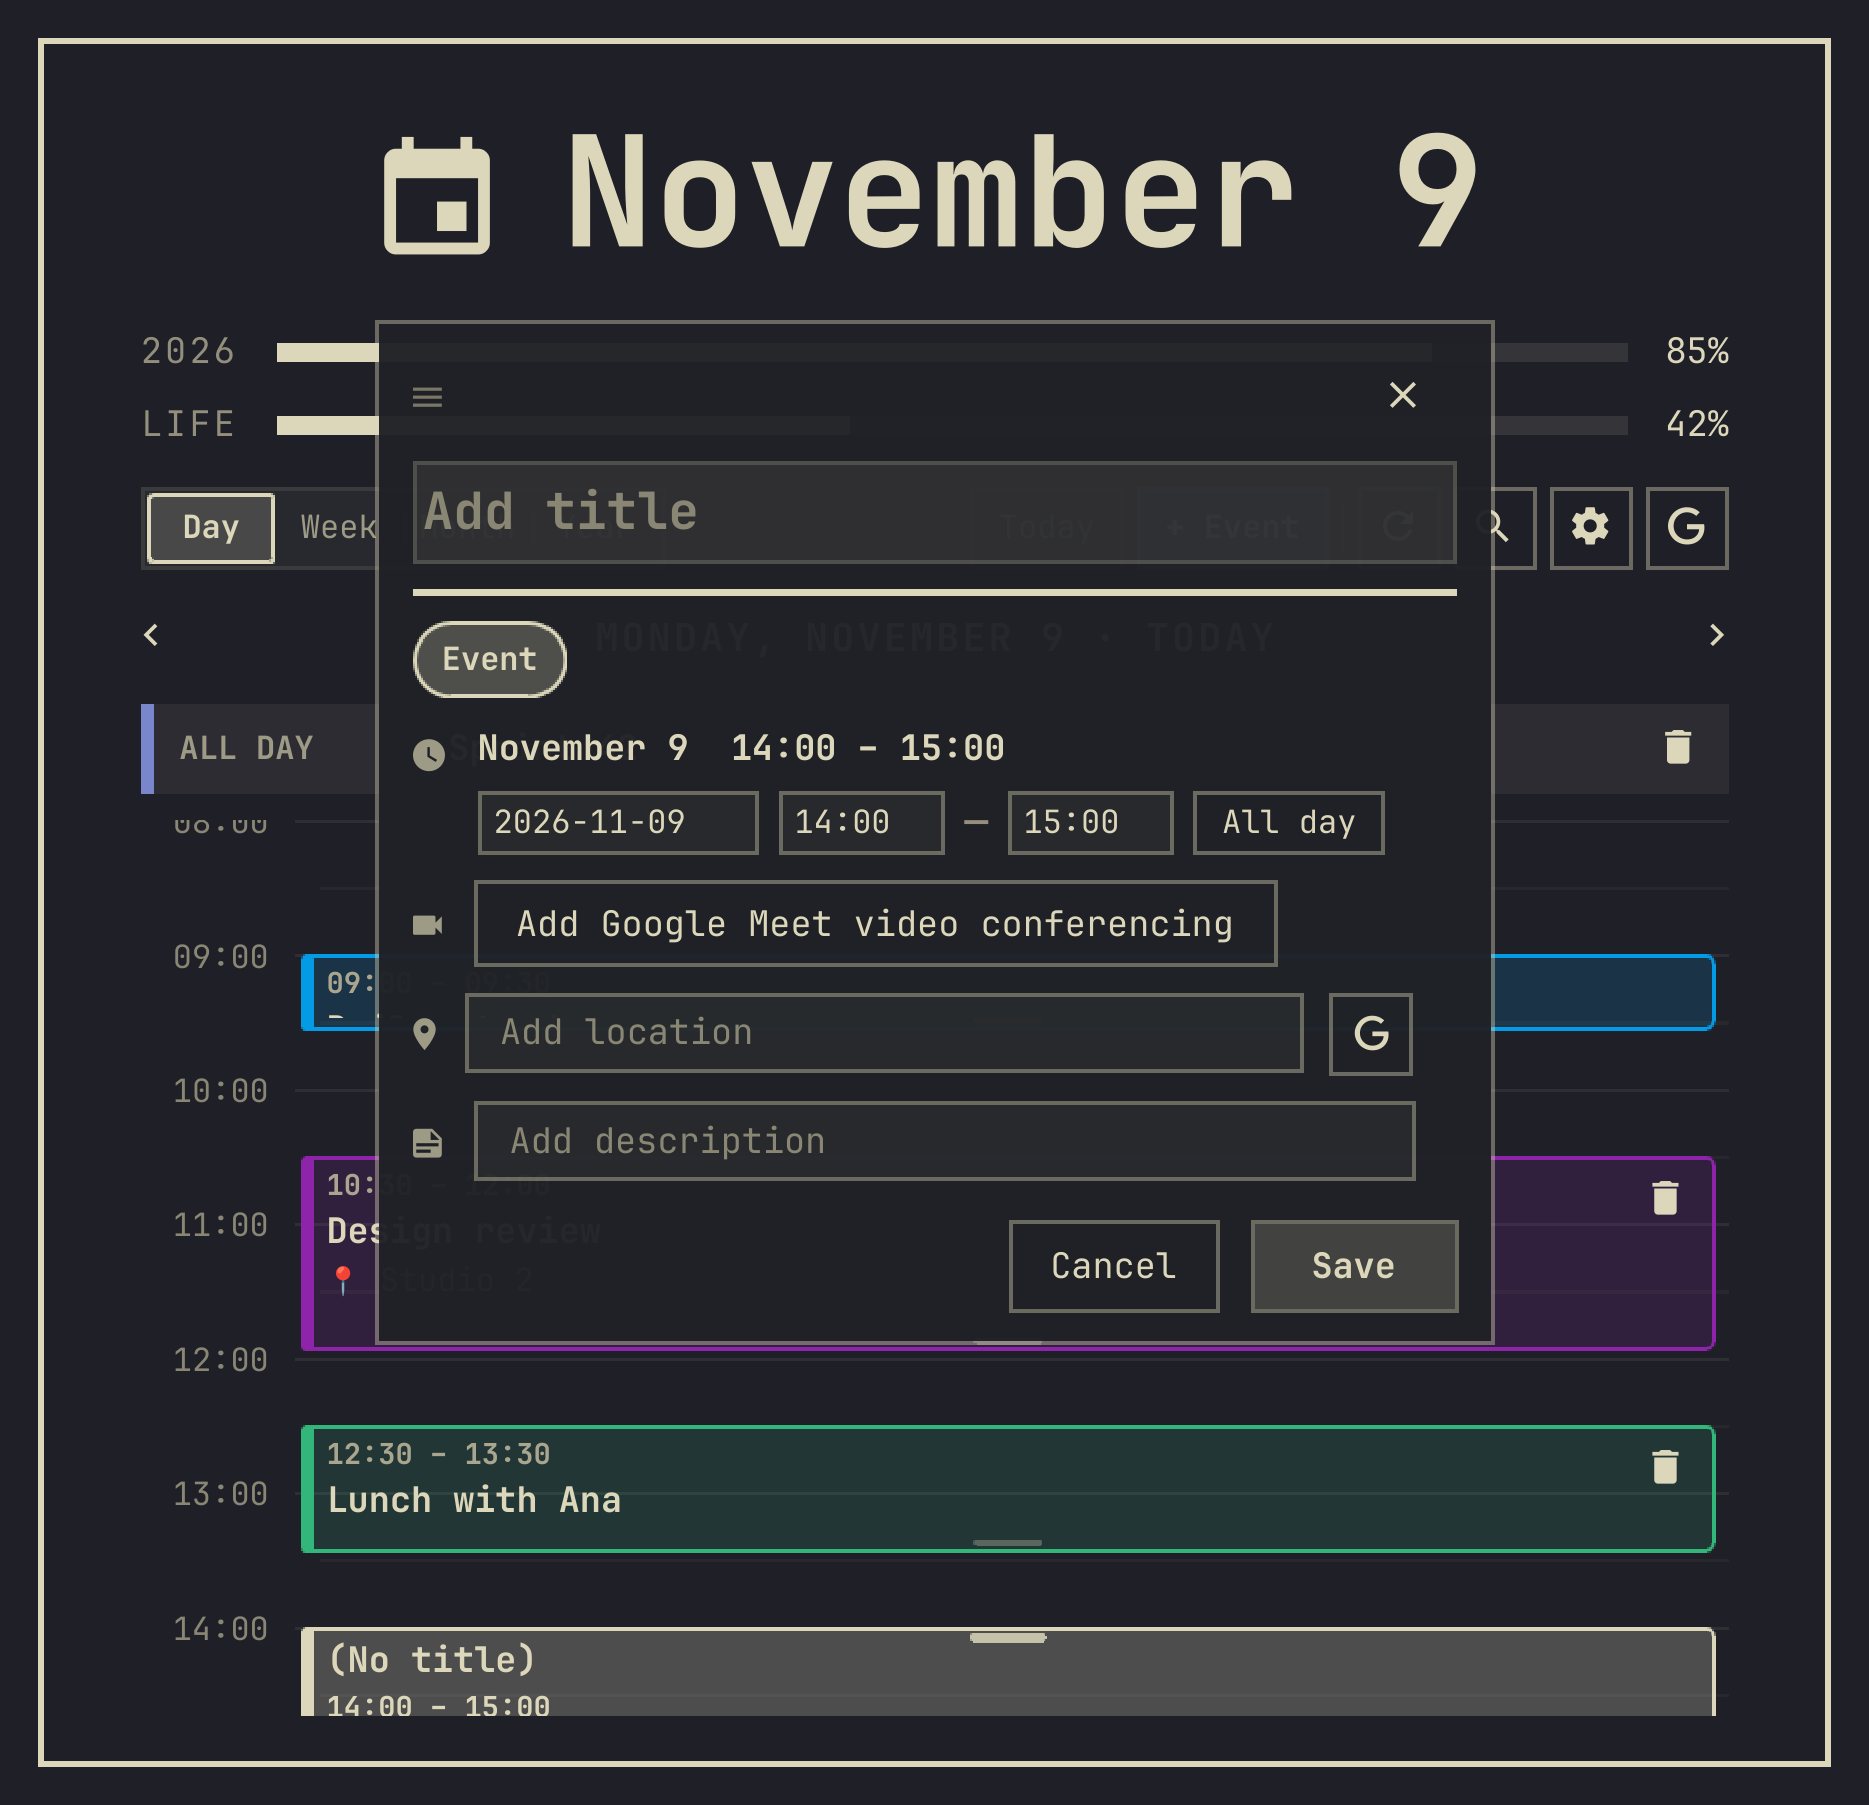
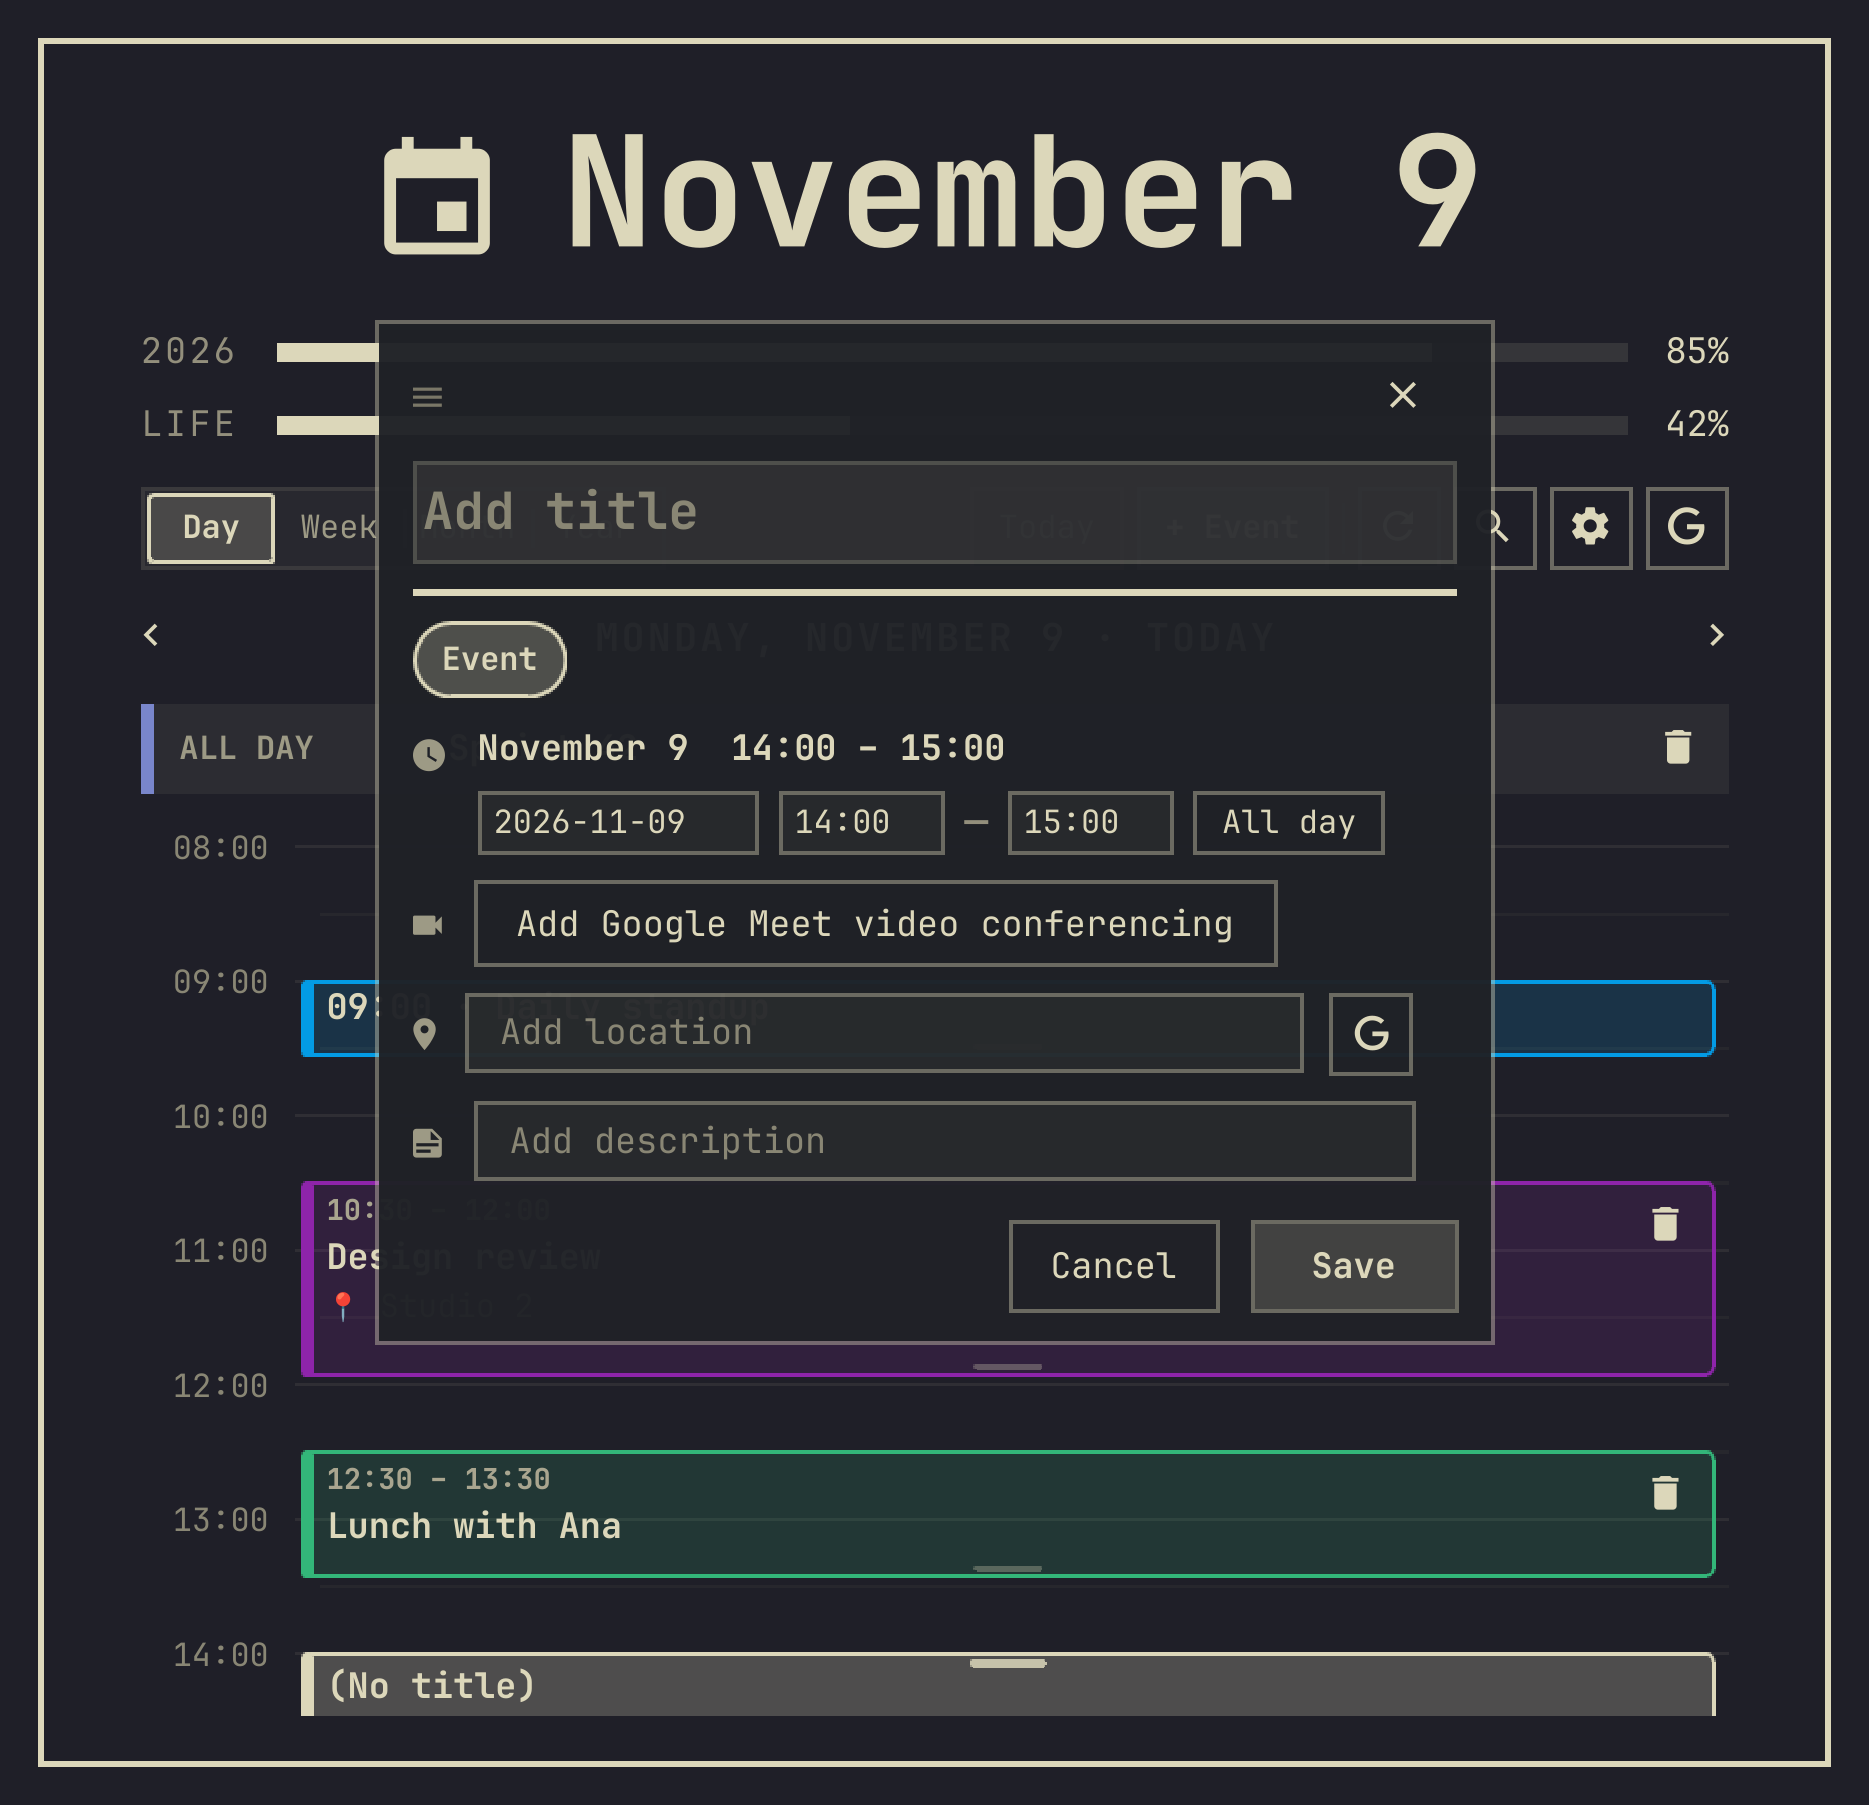
Fix review findings: untitled events, shortcuts, privacy note, day grid
- Untitled events: the helper stores an empty title instead of a hard-coded
  "(Sem título)"; Model.parseEventsPayload/sanitizeEvent take the localized
  label (events.untitled) from the bar widget, and old caches' Portuguese
  placeholder is mapped to it. Tests for both.
- Settings: the top-bar badge toggle reads On/Off (new toggle.on/off keys)
  instead of reusing the auto-sync Enabled/Paused labels.
- Day/Week grid: a top inset so the first visible hour label is not cut by
  the clip, and short Day cards (< ~45 min) show one "09:00 · Title" line.
  Docs captures regenerated.
- README: correct the shortcut table (W, j/k, d/w/m/y, v/V, {/}) and say
  that events.json also holds the secret iCal address.
- dev/deploy.sh: warn when the deployed HEAD is not pushed to origin, since
  `omarchy plugin update` pulls from there.

diff --git a/Panel.qml b/Panel.qml
@@ -1537,7 +1537,7 @@ Ui.Panel {
                   Button {
                     id: barBadgeToggleBtn
                     anchors.verticalCenter: parent.verticalCenter
-                    text: root.showBarEventBadge ? tr.t("sync.autoSyncOn") : tr.t("sync.autoSyncOff")
+                    text: root.showBarEventBadge ? tr.t("toggle.on") : tr.t("toggle.off")
                     selected: root.showBarEventBadge
                     bordered: true
                     foreground: root.contentForeground
@@ -2054,7 +2054,10 @@ Ui.Panel {
                 width: parent.width
                 height: Style.space(240)
                 contentWidth: width
-                contentHeight: 24 * weekViewCol.weekHourHeight
+                // Room above the first hour line so its label (drawn half above
+                // the line) is never cut by the clip at the top.
+                readonly property int topInset: Style.space(8)
+                contentHeight: 24 * weekViewCol.weekHourHeight + 2 * topInset
                 clip: true
                 boundsBehavior: Flickable.StopAtBounds
                 flickableDirection: Flickable.VerticalFlick
@@ -2078,6 +2081,7 @@ Ui.Panel {
 
                 Item {
                   id: weekCanvas
+                  y: weekTimelineFlick.topInset
                   width: weekTimelineFlick.width
                   height: 24 * weekViewCol.weekHourHeight
 
@@ -3008,7 +3012,10 @@ Ui.Panel {
                 width: parent.width
                 height: Style.space(280)
                 contentWidth: width
-                contentHeight: 24 * dayHourHeight
+                // Room above the first hour line so its label (drawn half above
+                // the line) is never cut by the clip at the top.
+                readonly property int topInset: Style.space(8)
+                contentHeight: 24 * dayHourHeight + 2 * topInset
                 clip: true
                 boundsBehavior: Flickable.StopAtBounds
                 flickableDirection: Flickable.VerticalFlick
@@ -3035,6 +3042,7 @@ Ui.Panel {
 
                 Item {
                   id: dayCanvas
+                  y: dayTimelineFlick.topInset
                   width: dayTimelineFlick.width
                   height: 24 * dayTimelineFlick.dayHourHeight
 
@@ -3480,13 +3488,18 @@ Ui.Panel {
                             anchors.right: dayEventActions.left
                             anchors.rightMargin: Style.space(4)
                             anchors.top: parent.top
-                            anchors.topMargin: Style.space(3)
+                            anchors.topMargin: compact ? Style.space(1) : Style.space(3)
                             anchors.bottom: parent.bottom
-                            anchors.bottomMargin: Style.space(4)
+                            anchors.bottomMargin: compact ? 0 : Style.space(4)
                             spacing: Style.space(1)
                             clip: true
 
+                            // Short cards (under ~45 min) get one "09:00 · Title" line
+                            // instead of a time row that pushes the title out of view.
+                            readonly property bool compact: dayEventCard.height < Style.space(32)
+
                             Text {
+                              visible: !parent.compact
                               textFormat: Text.PlainText
                               width: parent.width
                               elide: Text.ElideRight
@@ -3501,7 +3514,9 @@ Ui.Panel {
                               textFormat: Text.PlainText
                               width: parent.width
                               elide: Text.ElideRight
-                              text: modelData.title
+                              text: parent.compact
+                                ? Model.formatMinutes(dayEventCard.liveStartMinutes) + " · " + modelData.title
+                                : modelData.title
                               color: root.contentForeground
                               font.family: root.contentFontFamily
                               font.pixelSize: Style.font.bodySmall

diff --git a/Model.js b/Model.js
@@ -304,7 +304,9 @@ function formatMinutes(totalMinutes) {
   return pad2(h) + ":" + pad2(m)
 }
 
-function sanitizeEvent(raw) {
+// untitledLabel: the localized "(No title)" shown for events without a title.
+// The helper stores an empty title; older caches stored "(Sem título)".
+function sanitizeEvent(raw, untitledLabel) {
   if (!raw || typeof raw !== "object") return null
   var startParsed = parseDateKey(raw.startDate || raw.dateKey)
   if (!startParsed) return null
@@ -342,7 +344,9 @@ function sanitizeEvent(raw) {
   var id = neutralizeMarkup(raw.id || "", 128)
   if (!id) id = "ev:" + startKey + ":" + neutralizeMarkup(raw.title || "untitled", 32)
 
-  var title = neutralizeMarkup(raw.title || "(Sem título)", 200) || "(Sem título)"
+  var untitled = neutralizeMarkup(untitledLabel || "(No title)", 200) || "(No title)"
+  var rawTitle = raw.title === "(Sem título)" ? "" : raw.title
+  var title = neutralizeMarkup(rawTitle || "", 200) || untitled
   var location = neutralizeMarkup(raw.location || "", 240)
   var description = neutralizeMarkup(raw.description || "", 600)
   var calendarName = neutralizeMarkup(raw.calendarName || "Google Calendar", 80)
@@ -410,7 +414,7 @@ function indexEventsByDate(events) {
   return map
 }
 
-function parseEventsPayload(rawText) {
+function parseEventsPayload(rawText, untitledLabel) {
   var empty = {
     source: "local",
     connected: false,
@@ -431,7 +435,7 @@ function parseEventsPayload(rawText) {
     var rawList = Array.isArray(parsed.events) ? parsed.events.slice(0, 2000) : []
     var cleanList = []
     for (var i = 0; i < rawList.length; i++) {
-      var item = sanitizeEvent(rawList[i])
+      var item = sanitizeEvent(rawList[i], untitledLabel)
       if (item) cleanList.push(item)
     }
     var byDate = indexEventsByDate(cleanList)

diff --git a/dev/tests/test_model.js b/dev/tests/test_model.js
@@ -103,6 +103,17 @@ test("sanitizeHexColor and sanitizeHttpsUrl", () => {
   assert.equal(Model.sanitizeHttpsUrl("javascript:evil()"), "");
 });
 
+test("untitled events use the localized label", () => {
+  const base = { id: "u1", startDate: "2026-11-07", startTime: "09:00", endTime: "09:30" };
+  assert.equal(Model.sanitizeEvent(base).title, "(No title)");
+  assert.equal(Model.sanitizeEvent(base, "(Sem título)").title, "(Sem título)");
+  // Caches written by older helpers stored the Portuguese placeholder.
+  assert.equal(Model.sanitizeEvent(Object.assign({ title: "(Sem título)" }, base), "(No title)").title, "(No title)");
+  const payload = Model.parseEventsPayload(JSON.stringify({ events: [base] }), "(Untitled)");
+  assert.equal(payload.events[0].title, "(Untitled)");
+  assert.equal(payload.eventsByDate["2026-11-07"][0].title, "(Untitled)");
+});
+
 test("sanitizeEvent and indexEventsByDate", () => {
   const rawEv = {
     id: "test-1",

diff --git a/BarWidget.qml b/BarWidget.qml
@@ -130,7 +130,7 @@ Ui.BarWidget {
     printErrors: false
     onFileChanged: reload()
     onLoaded: {
-      root.calendarPayload = Model.parseEventsPayload(text())
+      root.calendarPayload = Model.parseEventsPayload(text(), tr.t("events.untitled"))
       root.injectPanel()
     }
     onLoadFailed: {

diff --git a/dev/tests/test_gcal.py b/dev/tests/test_gcal.py
@@ -106,6 +106,21 @@ END:VCALENDAR"""
         self.assertFalse(ev["allDay"])
         self.assertEqual(ev["meetLink"], "https://meet.google.com/xyz-uvwx-rst")
 
+    def test_vevent_without_summary_has_empty_title(self):
+        # The panel translates an empty title ("(No title)"); the helper must not
+        # store a hard-coded language.
+        ics = """BEGIN:VCALENDAR
+VERSION:2.0
+BEGIN:VEVENT
+UID:ev-untitled
+DTSTART:20261107T140000Z
+DTEND:20261107T150000Z
+END:VEVENT
+END:VCALENDAR"""
+        events = gcal.parse_ics_content(ics, datetime.date(2026, 11, 1), datetime.date(2026, 11, 30), self.tz)
+        self.assertEqual(len(events), 1)
+        self.assertEqual(events[0]["title"], "")
+
     def test_vevent_with_duration(self):
         ics = """BEGIN:VCALENDAR
 BEGIN:VEVENT

diff --git a/README.md b/README.md
@@ -138,15 +138,17 @@ omarchy-gcal auth
 
 | Shortcut | Description |
 |---|---|
-| `1`, `2`, `3`, `4` | Switch to **Day**, **Week**, **Month**, **Year** view |
-| `[` / `]` or `h` / `l` | Move backward / forward in time (by day, week, month, or year) |
-| `k` / `j` | Vertical step (move by week or year matching Up/Down arrows) |
+| `1`–`4` or `d` / `w` / `m` / `y` | Switch to **Day**, **Week**, **Month**, **Year** view |
+| `v` / `V` | Cycle to the next / previous view |
+| `[` / `]` or `h` / `l` | Move backward / forward by one day, week, month or year (the open view) |
+| `k` / `j` | Move up / down: by week (Day view), by month (Week view), by year (Month and Year views) |
+| `{` / `}` | Move backward / forward by one year |
 | `/` | Open **Search events** drawer to live-filter agenda |
 | `T` | Jump back to **Today** |
 | `N` or `+` | Open **+ Event** quick creation drawer |
 | `R` | Force immediate refresh / synchronization |
 | `S` | Toggle Google Calendar sync settings drawer |
-| `W` | Toggle week start day (Monday / Sunday) in Month view |
+| `W` | Switch to Week view; in Week view, toggle the week start (Monday / Sunday) |
 | `Esc` | Close active drawer or calendar panel |
 
 ## Command line
@@ -182,7 +184,7 @@ The widget reads these optional keys from its entry in the bar layout
 | `format` / `formatAlt` | `dddd dd MMM h:mm AP` / `d MMMM 'W'ww yyyy` | Clock formats (right-click cycles through presets) |
 | `verticalFormat` / `verticalFormatAlt` | `HH\n—\nmm` / … | Formats for a vertical bar |
 | `defaultViewMode` | `month` | `day`, `week`, `month` or `year` |
-| `weekStartDay` | your locale | `monday`, `sunday`, … (`W` toggles it) |
+| `weekStartDay` | your locale | `monday`, `sunday`, … (`W` in Week view toggles it) |
 | `autoSync` | `true` | Sync in the background |
 | `syncIntervalMinutes` | `10` | How often |
 | `showBarEventBadge` | `false` | Show the next event next to the clock |
@@ -205,7 +207,9 @@ Everything stays on your machine except the requests below; there is no telemetr
 - `~/.config/omarchy/gcal/credentials.json` and `token.json`: the OAuth client file and
   the access/refresh token.
 - `~/.local/state/omarchy/gcal/events.json`: the synced events (about two years back and
-  one forward), read by the bar widget; `local_events.json`: events created offline.
+  one forward), read by the bar widget. It also holds a copy of your secret iCal
+  address(es) for the settings field, so treat it like `config.json` and don't share it
+  when reporting a bug. `local_events.json`: events created offline.
 - `~/.local/bin/omarchy-gcal`: a symlink to the helper so you can use it in a terminal.
   It is only created when nothing is there.
 
